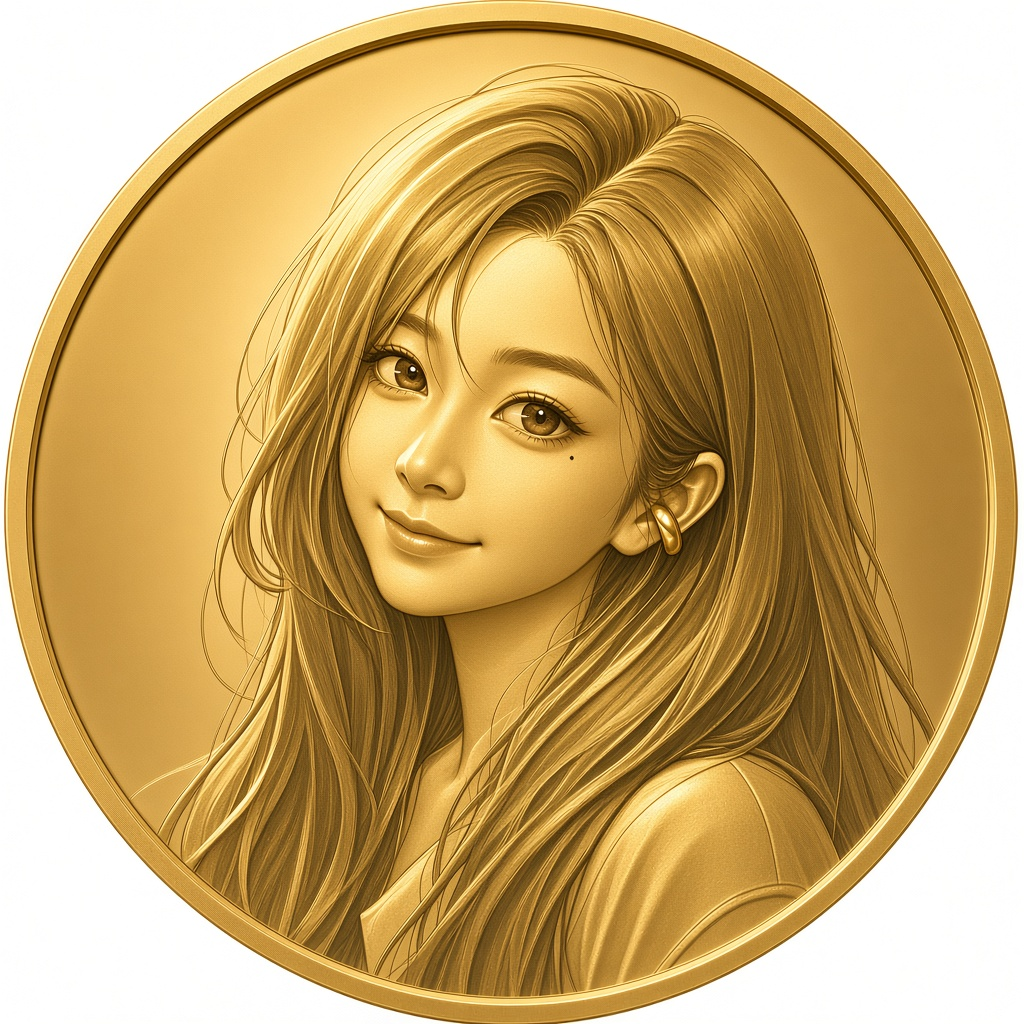
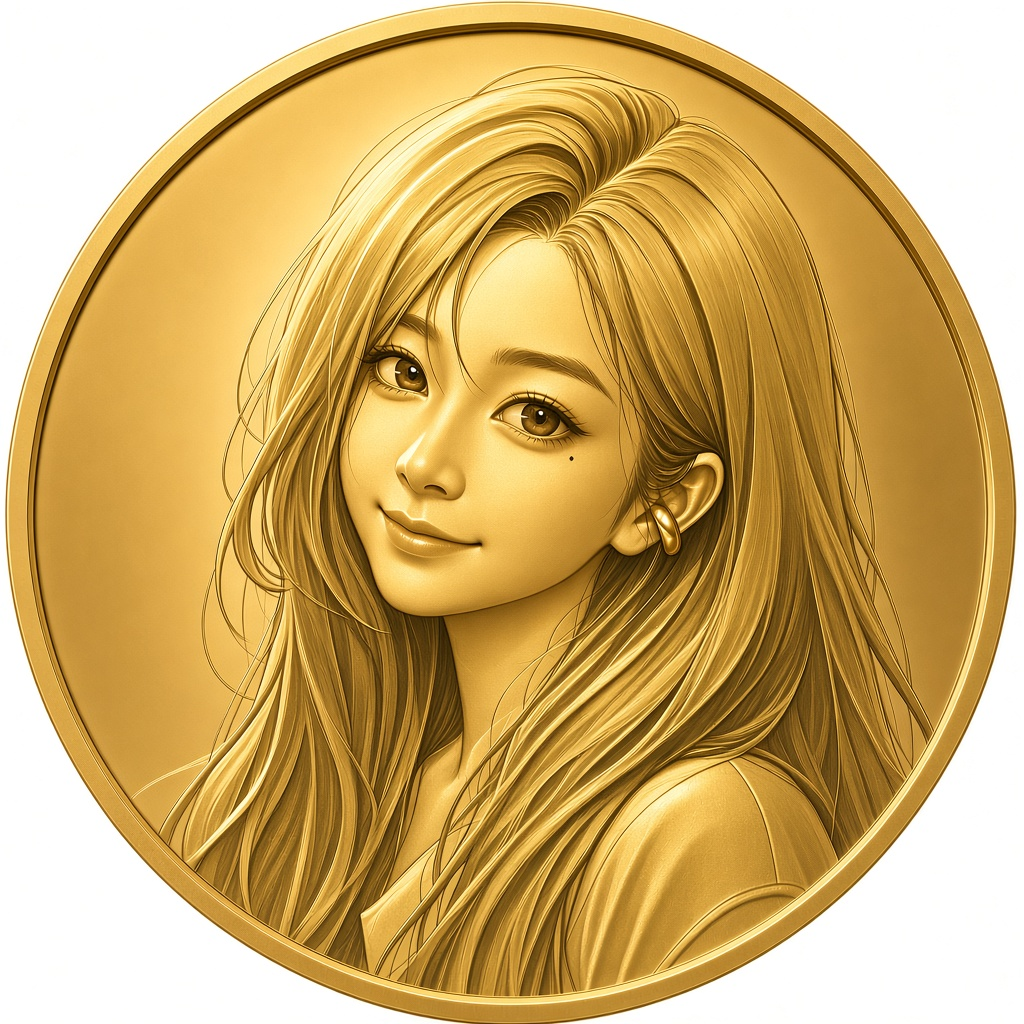
fix: 去掉 multiply 压黑，提亮头像并淡出边缘

Changed region(s): [[0.0, 0.0, 1.0, 1.0]]

diff --git a/src/pages/games/DicePage.tsx b/src/pages/games/DicePage.tsx
@@ -118,45 +118,57 @@ function CoinMetal({ uid }: { uid: string }) {
 
 const COIN_FONT = "Georgia, 'Times New Roman', 'Songti SC', serif"
 
-/** 正面：头像叠在同一金面上，不做深色内环 */
+/** 正面：浮雕叠在亮金面上（不用 multiply，避免中间发黑） */
 function CoinHeads({ uid }: { uid: string }) {
   const clip = `${uid}-clip`
   const fade = `${uid}-fade`
+  const lift = `${uid}-lift`
   const ring = `${uid}-ring`
   const mask = `${uid}-mask`
-  const ink = '#6a5818'
+  const ink = '#8a7020'
   return (
     <svg className="game-coin-art" viewBox="0 0 100 100" aria-hidden="true">
       <CoinMetal uid={`${uid}-h`} />
       <defs>
         <clipPath id={clip}>
-          <circle cx="50" cy="50" r="36" />
+          <circle cx="50" cy="50" r="35" />
         </clipPath>
-        <radialGradient id={fade} cx="50%" cy="42%" r="62%">
-          <stop offset="42%" stopColor="#ffffff" stopOpacity="1" />
-          <stop offset="72%" stopColor="#ffffff" stopOpacity="0.55" />
+        {/* 边缘完全淡出到透明，露出底下同一块金面 */}
+        <radialGradient id={fade} cx="50%" cy="40%" r="58%">
+          <stop offset="0%" stopColor="#ffffff" stopOpacity="1" />
+          <stop offset="38%" stopColor="#ffffff" stopOpacity="1" />
+          <stop offset="68%" stopColor="#ffffff" stopOpacity="0.45" />
           <stop offset="100%" stopColor="#ffffff" stopOpacity="0" />
         </radialGradient>
         <mask id={mask}>
-          <circle cx="50" cy="50" r="36" fill={`url(#${fade})`} />
+          <rect width="100" height="100" fill="#000" />
+          <circle cx="50" cy="50" r="35" fill={`url(#${fade})`} />
         </mask>
+        {/* 提亮头像，贴近币面黄金亮度 */}
+        <filter id={lift} colorInterpolationFilters="sRGB">
+          <feComponentTransfer>
+            <feFuncR type="linear" slope="1.35" intercept="0.12" />
+            <feFuncG type="linear" slope="1.28" intercept="0.1" />
+            <feFuncB type="linear" slope="0.85" intercept="0.02" />
+          </feComponentTransfer>
+        </filter>
         <path id={ring} d="M14.5,50 a35.5,35.5 0 1,1 71,0 a35.5,35.5 0 1,1 -71,0" fill="none" />
       </defs>
       <image
         href={jiajiaPortraitUrl()}
-        x="14"
+        x="15"
         y="12"
-        width="72"
-        height="72"
+        width="70"
+        height="70"
         clipPath={`url(#${clip})`}
         mask={`url(#${mask})`}
+        filter={`url(#${lift})`}
         preserveAspectRatio="xMidYMid slice"
-        opacity="0.88"
-        style={{ mixBlendMode: 'multiply' }}
+        opacity="0.72"
       />
       <text
         fill={ink}
-        fillOpacity="0.7"
+        fillOpacity="0.62"
         fontSize="3.5"
         letterSpacing="2.6"
         fontFamily={COIN_FONT}
